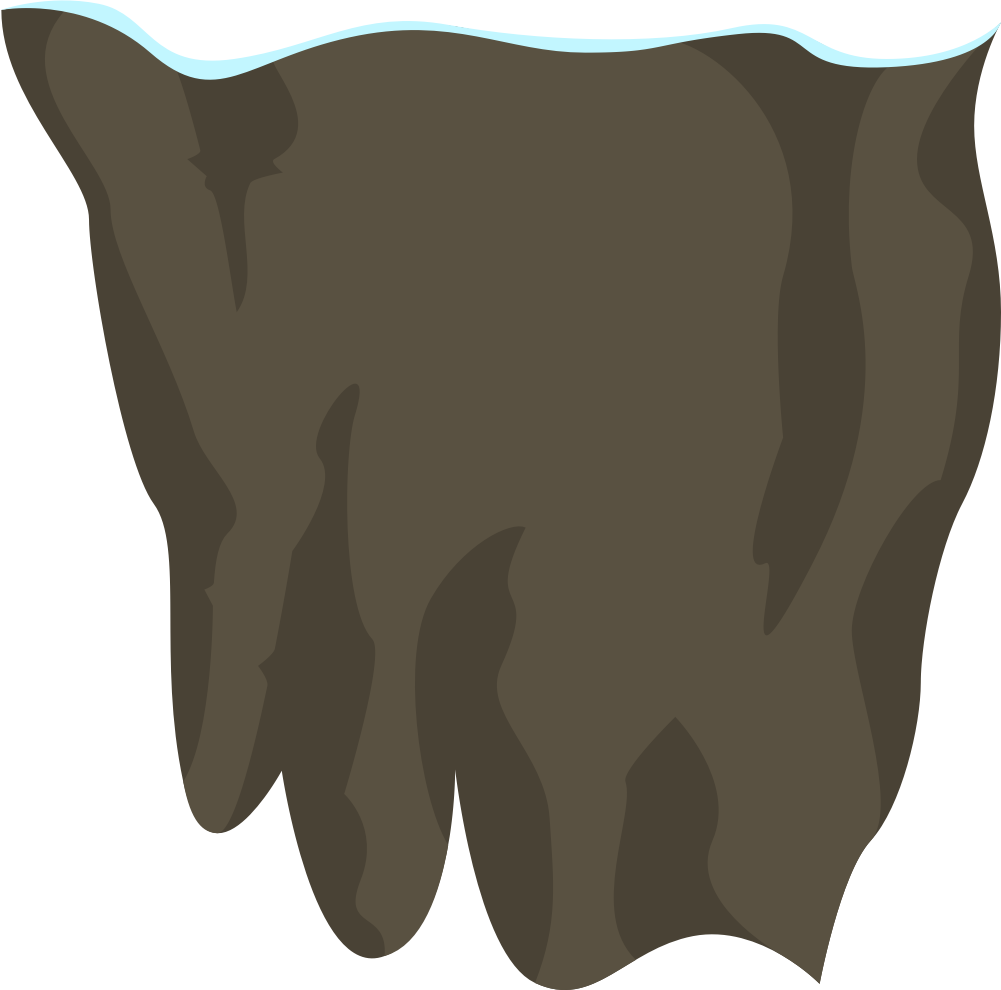
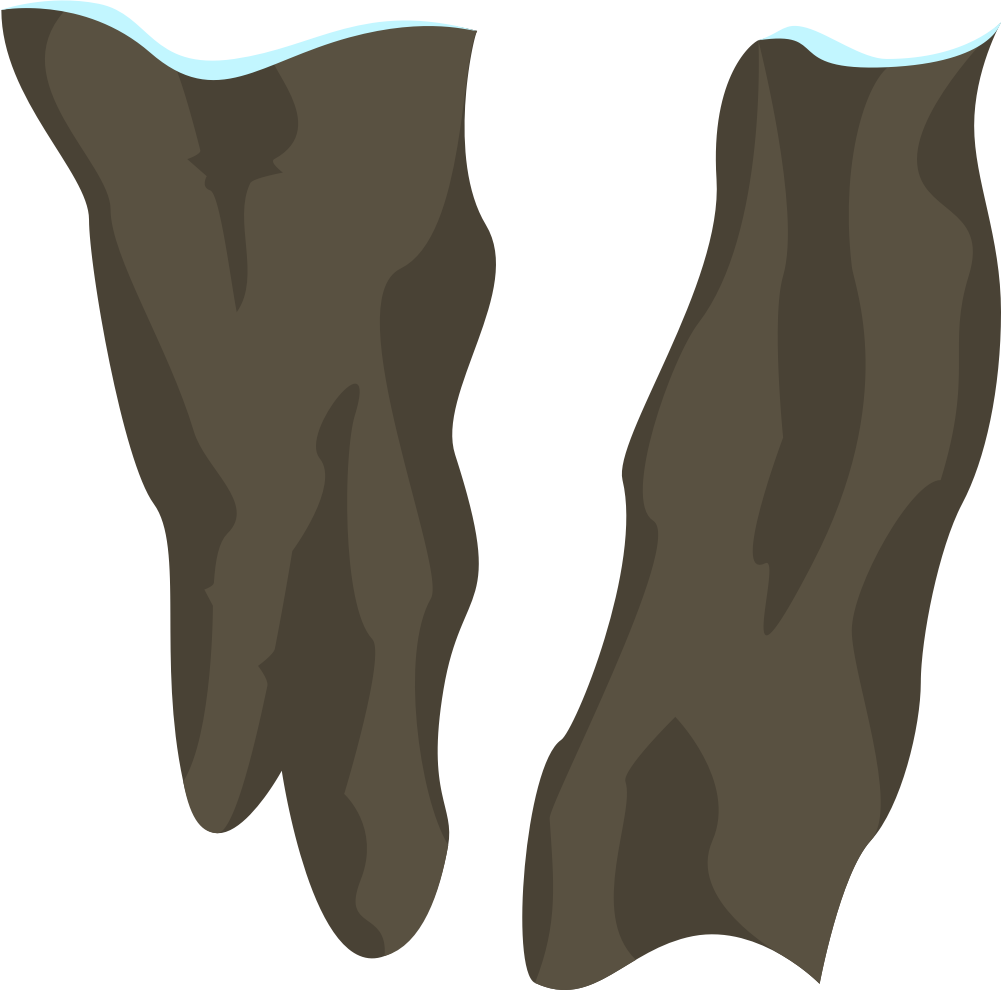
More awesome
* Chute between massive cliff graphic
* Make powder fields larger
* Improve powder/sink animation

diff --git a/js/GaperGapGame.js b/js/GaperGapGame.js
@@ -296,16 +296,19 @@ var SnowBall = function() {
 
   ball.plow = function() {
     var xDest = GaperGap.utils.getRandomInt(-40, 40);
-    var yDest = GaperGap.utils.getRandomInt(-40, 0);
-    var angle = GaperGap.utils.getRandomInt(0, 360);
+    var yDest = GaperGap.utils.getRandomInt(-40, 40);
+    ball.rotation = GaperGap.utils.getRandomInt(0, 360);
+    var scale = GaperGap.utils.getRandomFloat(0.5, 1);
 
-    createjs.Tween.get(ball, {override:true}).to({
+    createjs.Tween.get(ball, {override:false}).to({
       x: xDest,
-      y: yDest,
-      rotation: angle
-    }, 700, createjs.Ease.sineOut).to({
-      alpha: 0
-    }, 1000, createjs.Ease.sineOut).call(this.destroy);
+      y: yDest
+    }, 700, createjs.Ease.sineOut);
+
+    createjs.Tween.get(ball, {override:false}).to({
+      scaleX: scale,
+      scaleY: scale
+    }, 700, createjs.Ease.quintOut).call(this.destroy);
   };
   return ball;
 };
@@ -466,11 +469,19 @@ var Skier = function() {
   skier.sink = function(bool) {
     console.log('sink! - ', bool);
     if (bool) {
+      createjs.Tween.get(skier, {override:true}).to({
+        y: 20
+      }, 500, createjs.Ease.sineIn);
+
       createjs.Tween.get(push, {override:true}).to({
         scaleX: 1,
         scaleY: 1
       }, 300, createjs.Ease.bounceOut);
     } else {
+      createjs.Tween.get(skier, {override:true}).to({
+        y: 0
+      }, 200, createjs.Ease.circOut);
+
       createjs.Tween.get(push, {override:true}).to({
         scaleX: 0,
         scaleY: 0

diff --git a/js/src/Particles.js b/js/src/Particles.js
@@ -29,16 +29,19 @@ var SnowBall = function() {
 
   ball.plow = function() {
     var xDest = GaperGap.utils.getRandomInt(-40, 40);
-    var yDest = GaperGap.utils.getRandomInt(-40, 0);
-    var angle = GaperGap.utils.getRandomInt(0, 360);
+    var yDest = GaperGap.utils.getRandomInt(-40, 40);
+    ball.rotation = GaperGap.utils.getRandomInt(0, 360);
+    var scale = GaperGap.utils.getRandomFloat(0.5, 1);
 
-    createjs.Tween.get(ball, {override:true}).to({
+    createjs.Tween.get(ball, {override:false}).to({
       x: xDest,
-      y: yDest,
-      rotation: angle
-    }, 700, createjs.Ease.sineOut).to({
-      alpha: 0
-    }, 1000, createjs.Ease.sineOut).call(this.destroy);
+      y: yDest
+    }, 700, createjs.Ease.sineOut);
+
+    createjs.Tween.get(ball, {override:false}).to({
+      scaleX: scale,
+      scaleY: scale
+    }, 700, createjs.Ease.quintOut).call(this.destroy);
   };
   return ball;
 };

diff --git a/js/src/Skier.js b/js/src/Skier.js
@@ -155,11 +155,19 @@ var Skier = function() {
   skier.sink = function(bool) {
     console.log('sink! - ', bool);
     if (bool) {
+      createjs.Tween.get(skier, {override:true}).to({
+        y: 20
+      }, 500, createjs.Ease.sineIn);
+
       createjs.Tween.get(push, {override:true}).to({
         scaleX: 1,
         scaleY: 1
       }, 300, createjs.Ease.bounceOut);
     } else {
+      createjs.Tween.get(skier, {override:true}).to({
+        y: 0
+      }, 200, createjs.Ease.circOut);
+
       createjs.Tween.get(push, {override:true}).to({
         scaleX: 0,
         scaleY: 0
